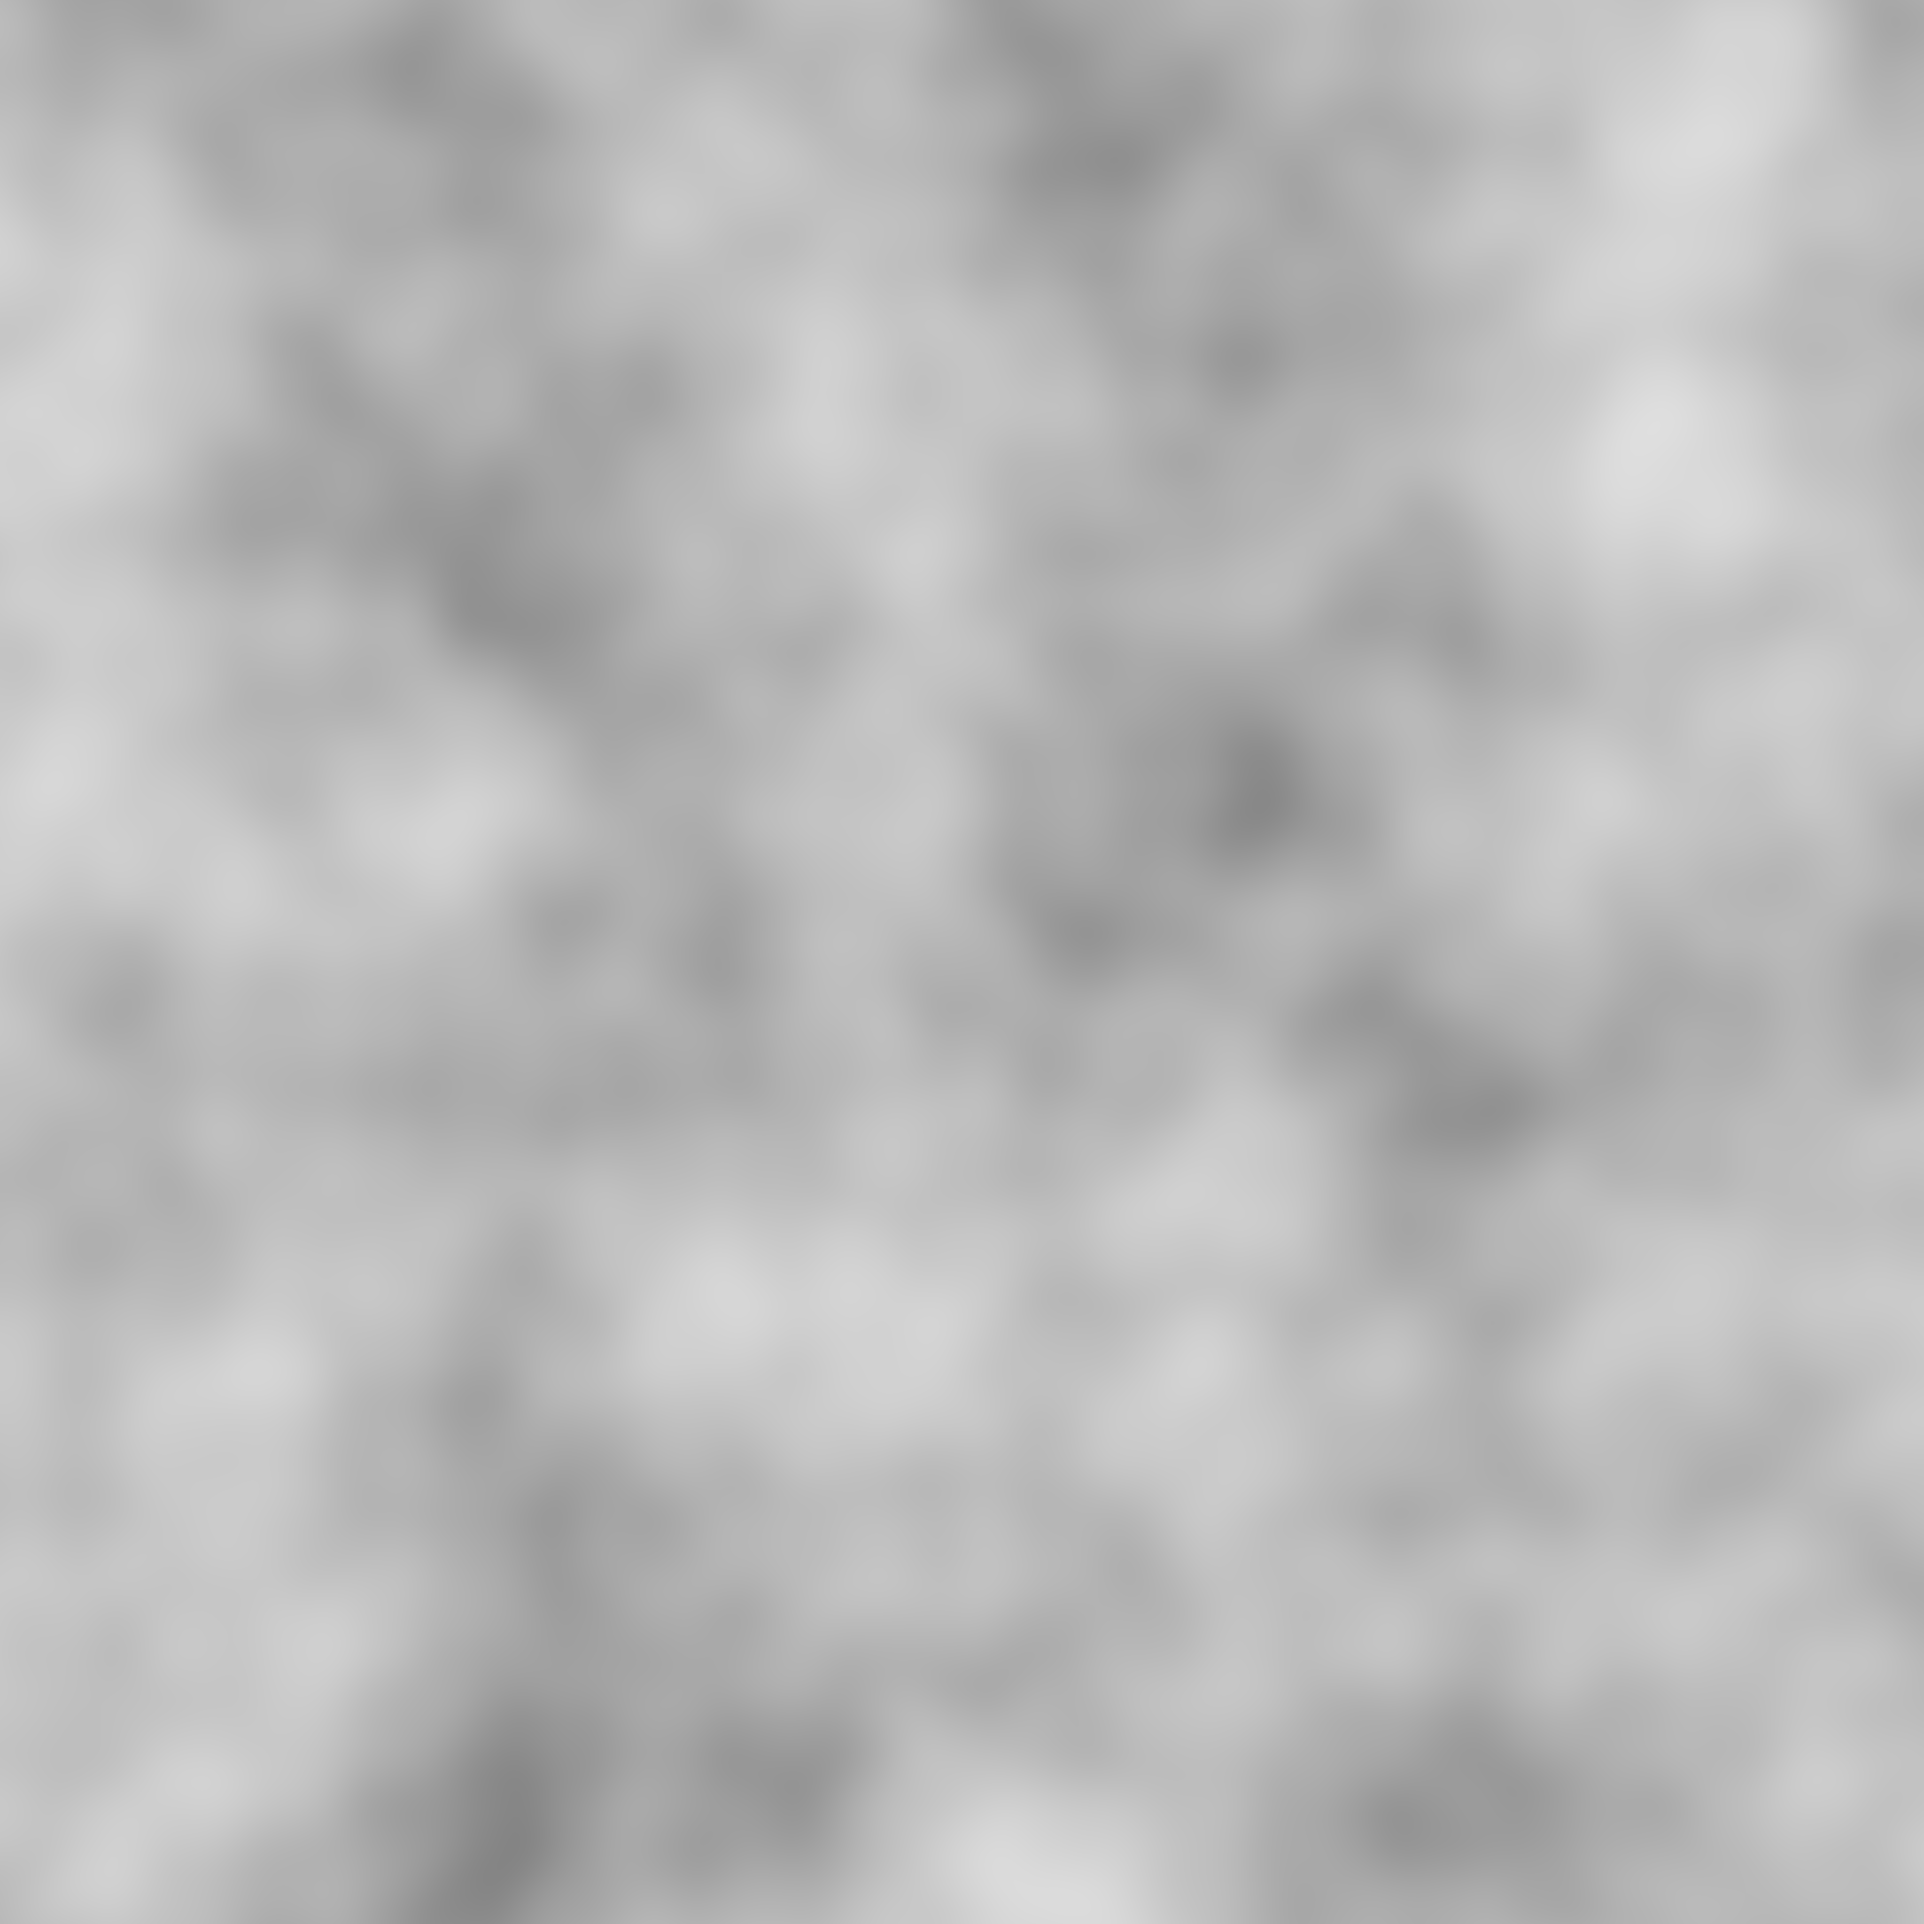
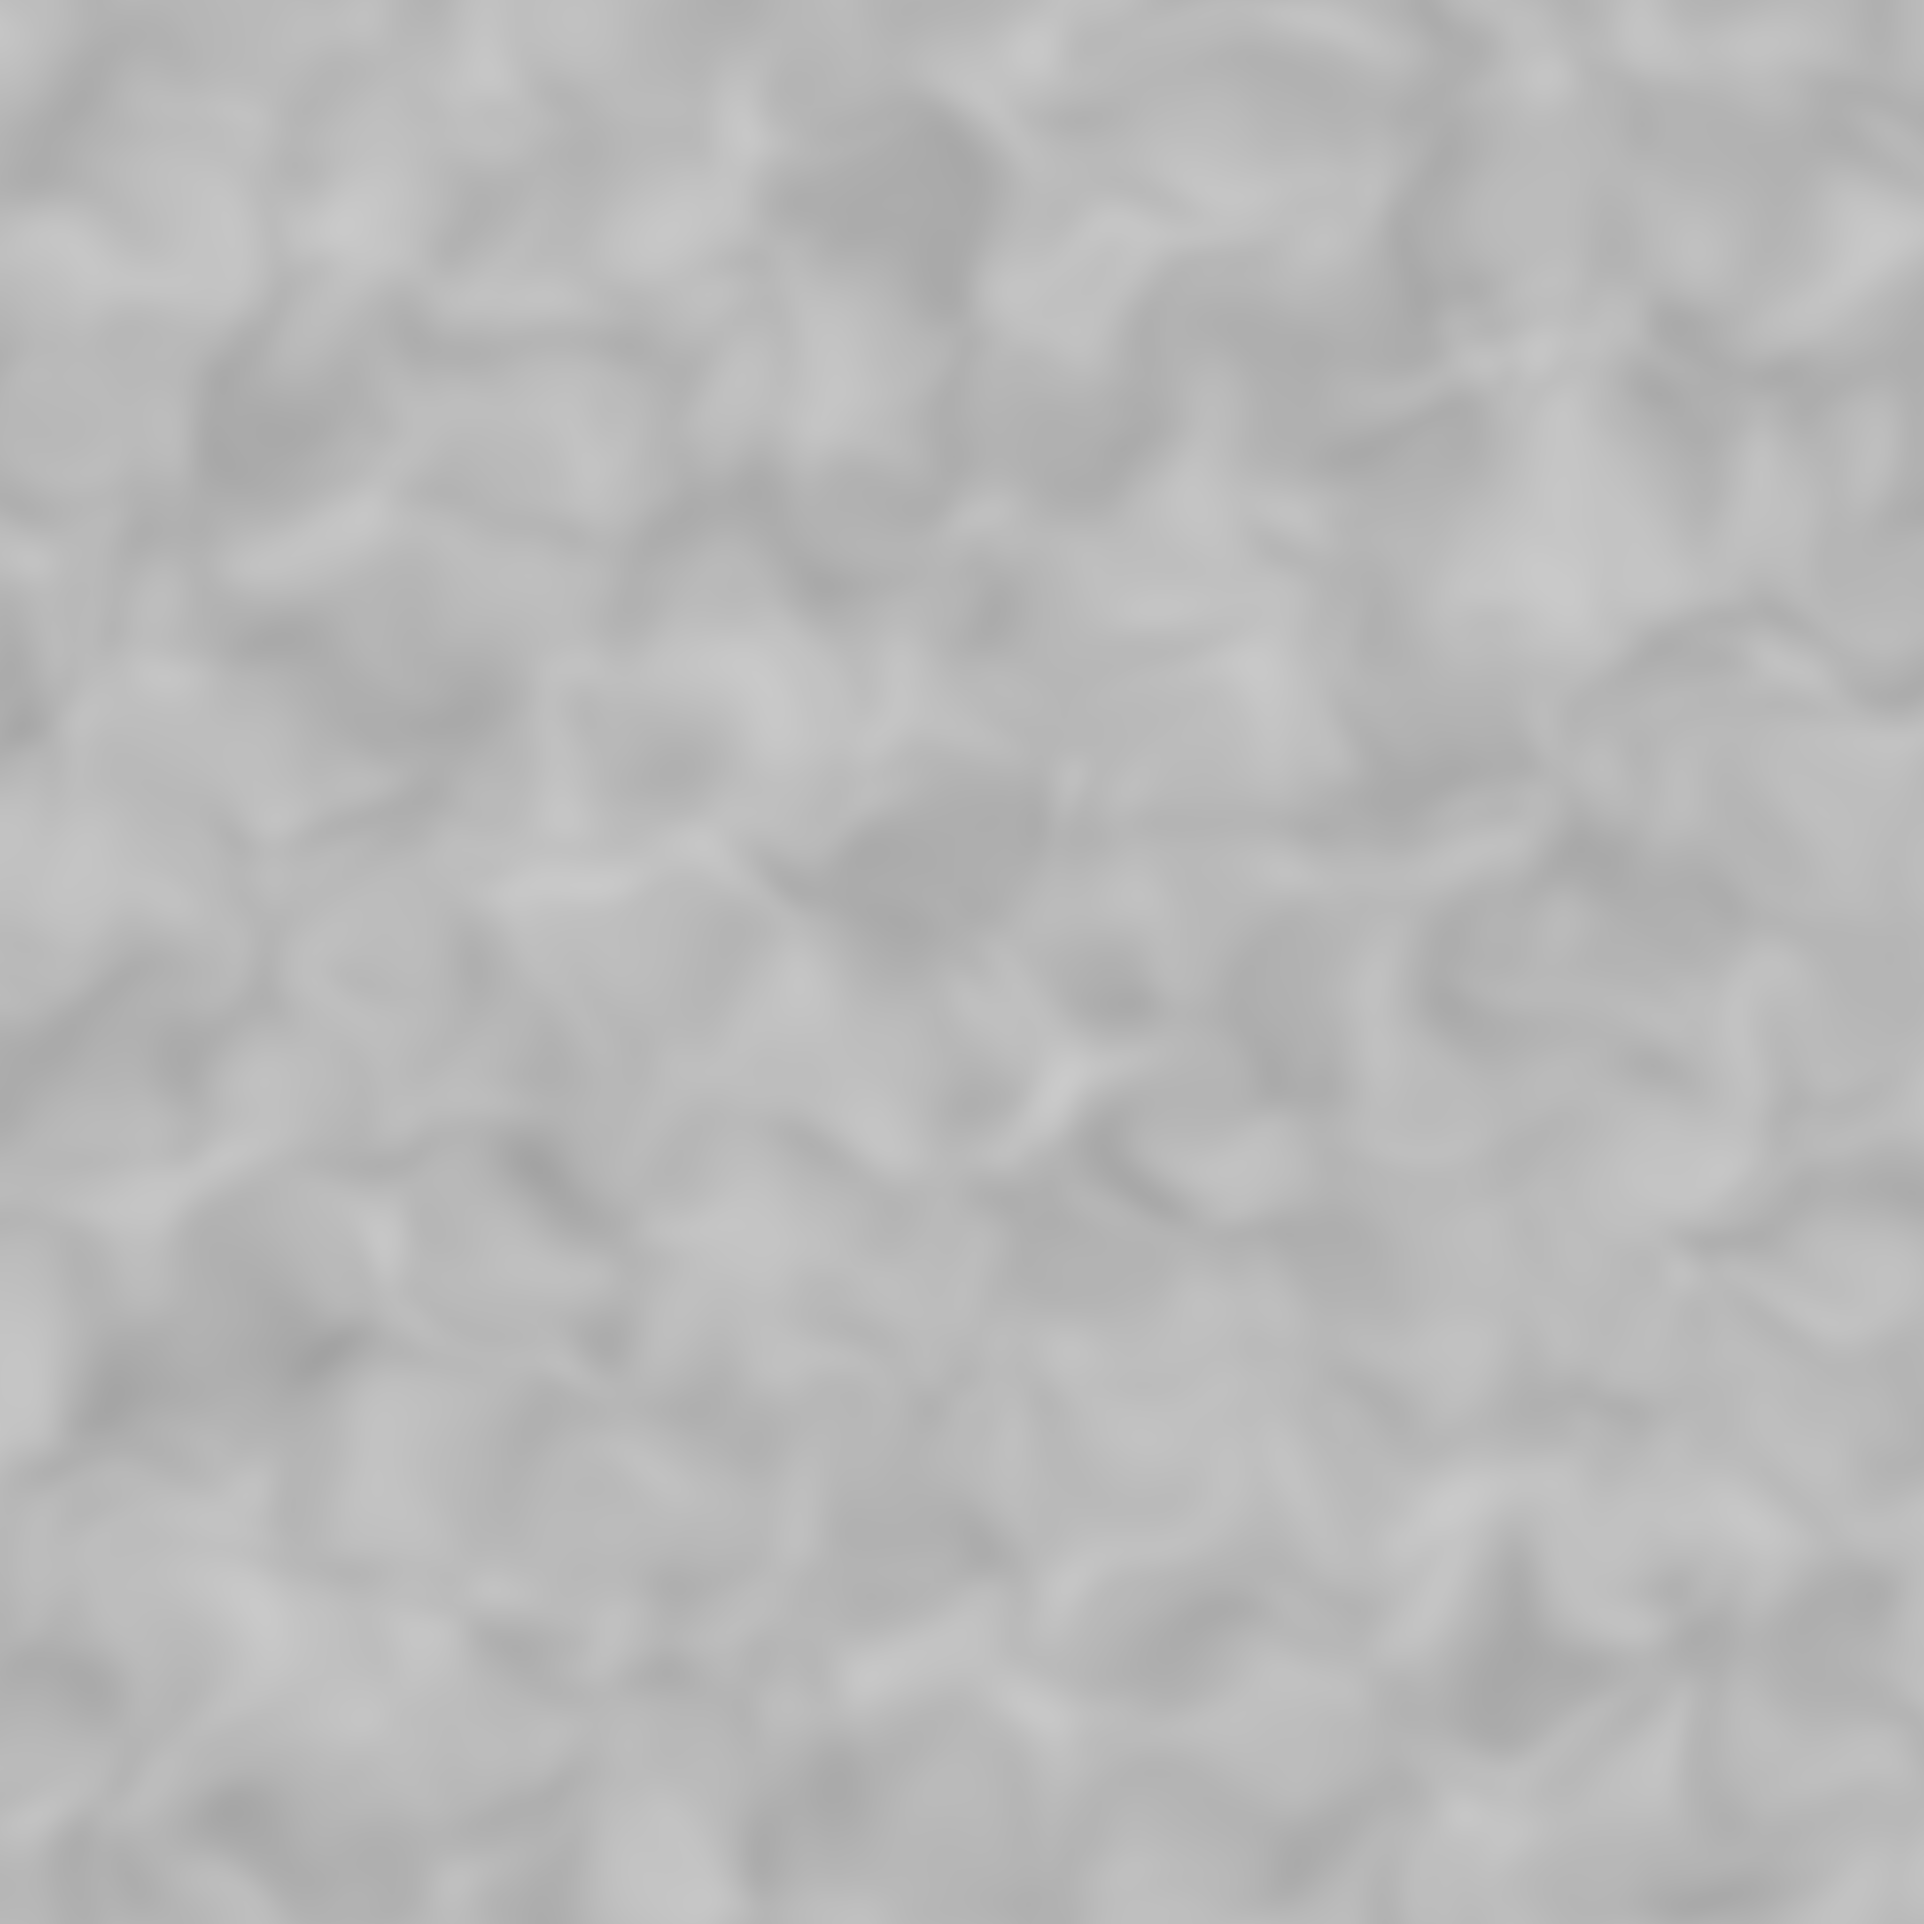
[Dev] - skybox integration

diff --git a/Exercise1.cpp b/Exercise1.cpp
@@ -331,7 +331,7 @@ bool setup()
     texture_disp_smoke = gdevLoadTexture("tex-disp.png", GL_REPEAT, true, true);
     if (! texture_disp_smoke) return false;
 
-    texture_skybox = gdevLoadTexture("tex-skybox.png", GL_REPEAT, true, true);
+    texture_skybox = gdevLoadTexture("tex-skybox-2.png", GL_REPEAT, true, true);
     if (! texture_disp_smoke) return false;
 
     // load our shader program
@@ -456,8 +456,8 @@ void render()
     glBindVertexArray(vaos[1]); // train
     glDrawArrays(GL_TRIANGLES, 0, (train.size() * sizeof(float)) / (11 * sizeof(float)));
 
-    glBindVertexArray(vaos[3]); // tank
-    glDrawArrays(GL_TRIANGLES, 0, (sizeof(tankVertices)) / (11 * sizeof(float)));
+    // glBindVertexArray(vaos[3]); // tank
+    // glDrawArrays(GL_TRIANGLES, 0, (sizeof(tankVertices)) / (11 * sizeof(float)));
 
     glActiveTexture(GL_TEXTURE0);
     glBindTexture(GL_TEXTURE_2D, texture_rainbow);
@@ -469,6 +469,19 @@ void render()
     glActiveTexture(GL_TEXTURE1);
     glBindTexture(GL_TEXTURE_2D, texture_disp_smoke);
     glUniform1i(glGetUniformLocation(shader, "shaderTextureSmoke"), 1);
+
+    glm::mat4 skyModel = glm::mat4(1.0f);
+    skyModel = glm::translate(skyModel, glm::vec3(cameraPos.x, cameraPos.y, cameraPos.z));
+    skyModel = glm::scale(skyModel, glm::vec3(1.0f, 1.0f, 1.0f));
+    glUniformMatrix4fv(glGetUniformLocation(shader, "model"), 1, GL_FALSE, glm::value_ptr(skyModel));
+
+    glActiveTexture(GL_TEXTURE0);
+    glBindTexture(GL_TEXTURE_2D, texture_skybox);
+    glUniform1i(glGetUniformLocation(shader, "texture_file"), 0);
+
+    glBindVertexArray(vaos[5]); // skybox
+    glDrawArrays(GL_TRIANGLES, 0, (skybox.size() * sizeof(float)) / (11 * sizeof(float)));
+
 
     glm::mat4 floorModel = glm::mat4(1.0f);
     floorModel = glm::translate(floorModel, glm::vec3(cameraPos.x, 0.0f, cameraPos.z));
@@ -487,16 +500,6 @@ void render()
     
     glUniform1i(glGetUniformLocation(shader, "isTile"), 0);
 
-    // glm::mat4 skyModel = glm::mat4(1.0f);
-    // skyModel = glm::translate(skyModel, glm::vec3(cameraPos.x, cameraPos.y, cameraPos.z));
-    // skyModel = glm::scale(skyModel, glm::vec3(5.0f, 1.0f, 5.0f));
-
-    // glActiveTexture(GL_TEXTURE0);
-    // glBindTexture(GL_TEXTURE_2D, texture_skybox);
-    // glUniform1i(glGetUniformLocation(shader, "texture_file"), 0);
-
-    // glBindVertexArray(vaos[4]); // water
-    // glDrawArrays(GL_TRIANGLES, 0, (skybox.size() * sizeof(float)) / (11 * sizeof(float)));
 
     // tank
     // glBindVertexArray(vao);
